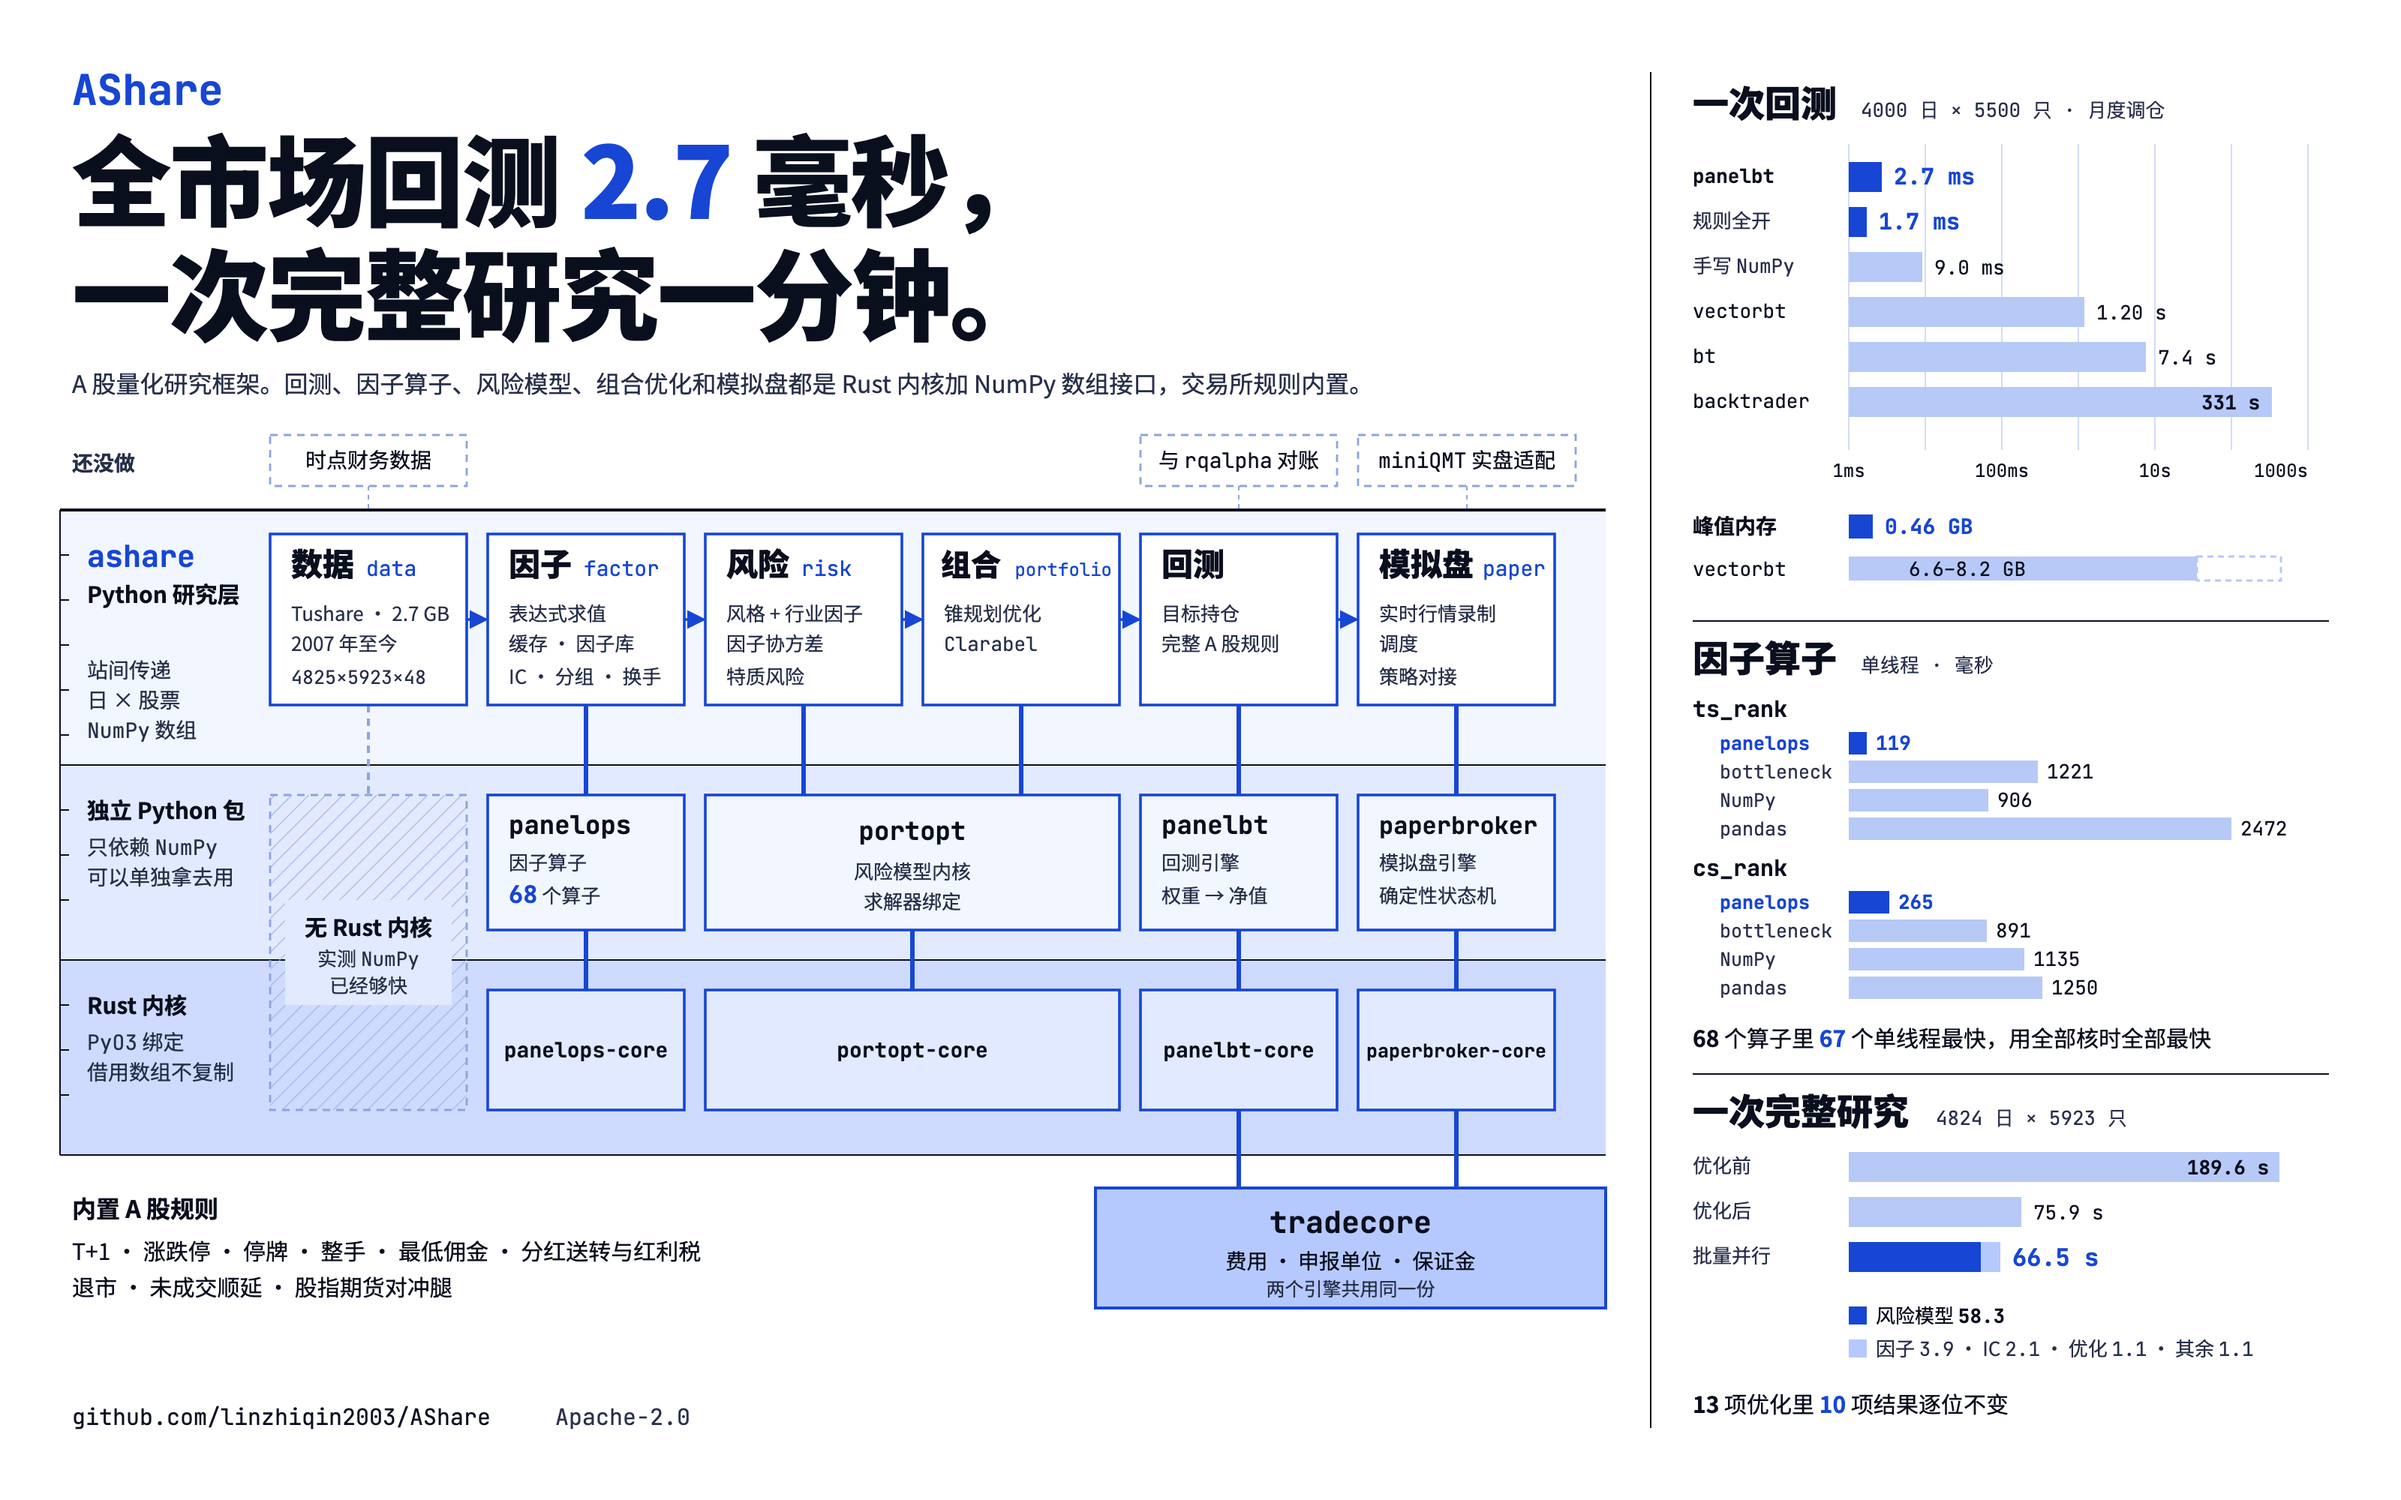
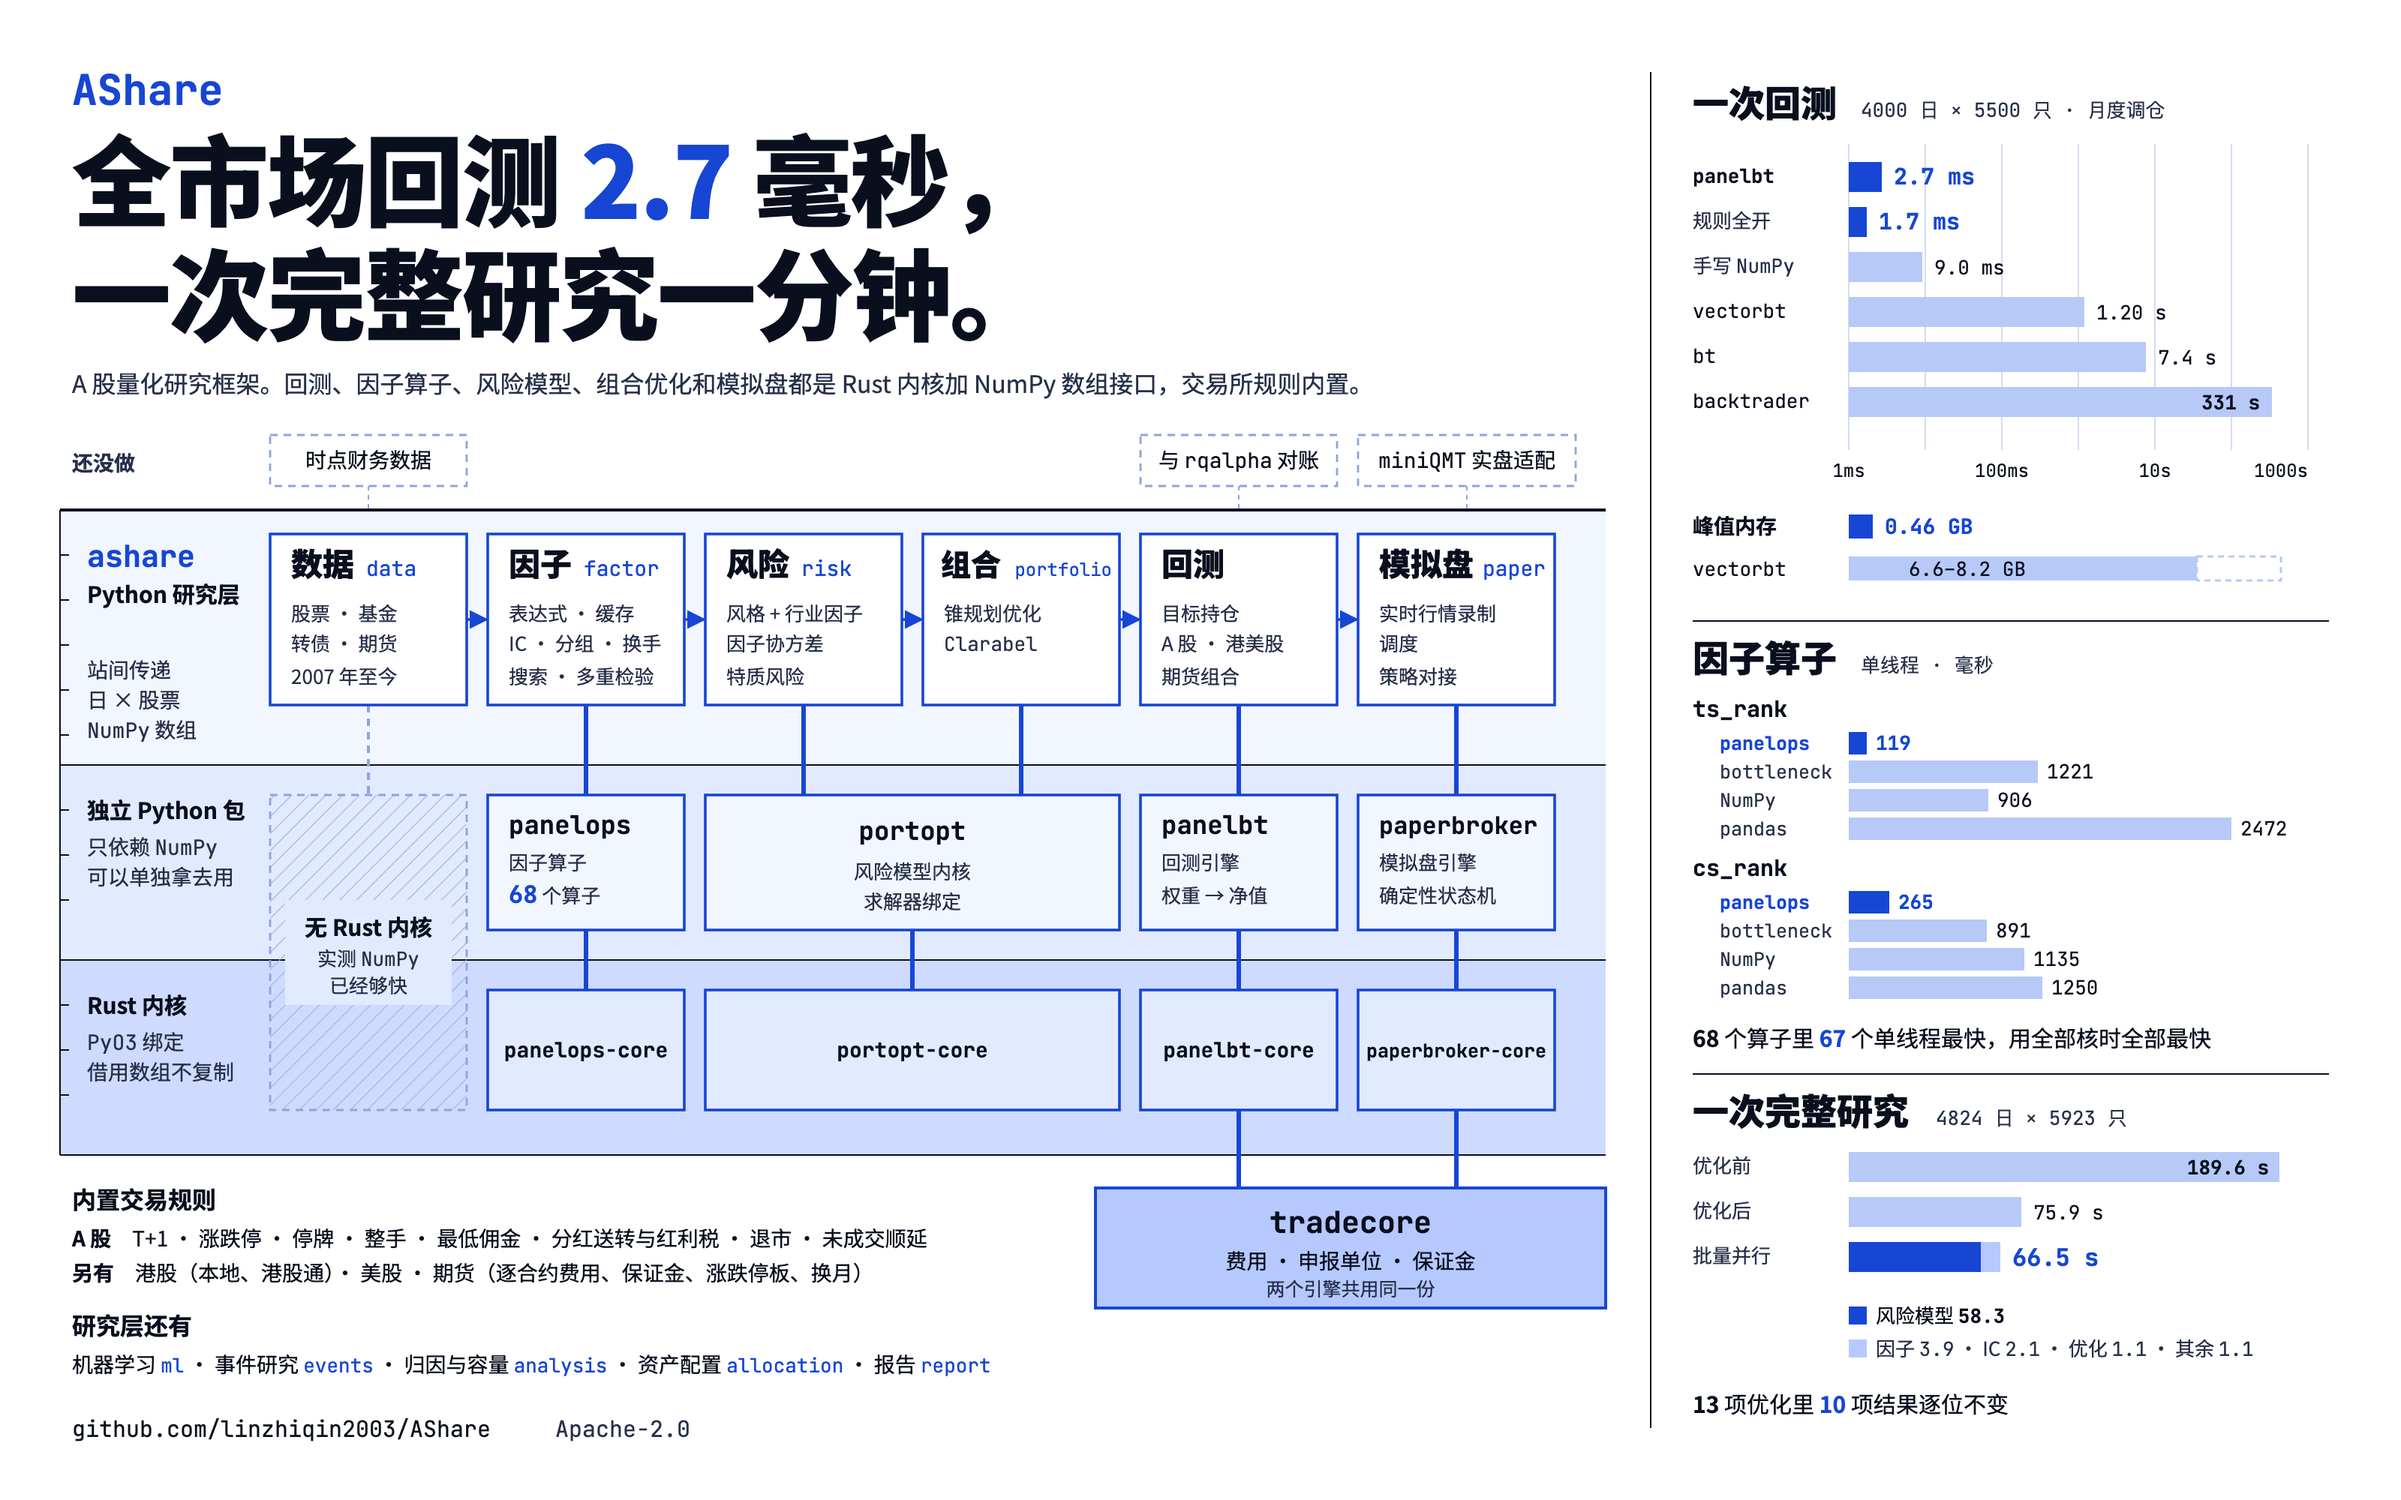
README architecture figure: current data coverage, market profiles and research-layer modules

diff --git a/docs/assets/architecture.html b/docs/assets/architecture.html
@@ -128,14 +128,14 @@ text{font-family:"Noto Sans SC","PingFang SC","Hiragino Sans GB",sans-serif;fill
 </g>
 <g font-size="13">
   <text x="194" y="384" font-size="21" class="k">数据</text><text x="244" y="384" class="m blue" font-size="14">data</text>
-  <text x="194" y="414" class="i2">Tushare · 2.7 GB</text>
-  <text x="194" y="434" class="i2">2007 年至今</text>
-  <text x="194" y="456" class="m i2" font-size="12.5">4825×5923×48</text>
+  <text x="194" y="414" class="i2">股票 · 基金</text>
+  <text x="194" y="434" class="i2">转债 · 期货</text>
+  <text x="194" y="456" class="i2">2007 年至今</text>
 
   <text x="339" y="384" font-size="21" class="k">因子</text><text x="389" y="384" class="m blue" font-size="14">factor</text>
-  <text x="339" y="414" class="i2">表达式求值</text>
-  <text x="339" y="434" class="i2">缓存 · 因子库</text>
-  <text x="339" y="456" class="i2">IC · 分组 · 换手</text>
+  <text x="339" y="414" class="i2">表达式 · 缓存</text>
+  <text x="339" y="434" class="i2">IC · 分组 · 换手</text>
+  <text x="339" y="456" class="i2">搜索 · 多重检验</text>
 
   <text x="484" y="384" font-size="21" class="k">风险</text><text x="534" y="384" class="m blue" font-size="14">risk</text>
   <text x="484" y="414" class="i2">风格 + 行业因子</text>
@@ -148,7 +148,8 @@ text{font-family:"Noto Sans SC","PingFang SC","Hiragino Sans GB",sans-serif;fill
 
   <text x="774" y="384" font-size="21" class="k">回测</text>
   <text x="774" y="414" class="i2">目标持仓</text>
-  <text x="774" y="434" class="i2">完整 A 股规则</text>
+  <text x="774" y="434" class="i2">A 股 · 港美股</text>
+  <text x="774" y="456" class="i2">期货组合</text>
 
   <text x="919" y="384" font-size="21" class="k">模拟盘</text><text x="988" y="384" class="m blue" font-size="14">paper</text>
   <text x="919" y="414" class="i2">实时行情录制</text>
@@ -202,13 +203,16 @@ text{font-family:"Noto Sans SC","PingFang SC","Hiragino Sans GB",sans-serif;fill
 <text x="900" y="864" text-anchor="middle" font-size="12.5" class="i2">两个引擎共用同一份</text>
 
 <!-- ---- A-share rules ---- -->
-<text x="48" y="812" font-size="16" class="b">内置 A 股规则</text>
-<text x="48" y="840" font-size="15">T+1 · 涨跌停 · 停牌 · 整手 · 最低佣金 · 分红送转与红利税</text>
-<text x="48" y="864" font-size="15">退市 · 未成交顺延 · 股指期货对冲腿</text>
+<text x="48" y="806" font-size="16" class="b">内置交易规则</text>
+<text x="48" y="831" font-size="14"><tspan class="b">A 股</tspan>　T+1 · 涨跌停 · 停牌 · 整手 · 最低佣金 · 分红送转与红利税 · 退市 · 未成交顺延</text>
+<text x="48" y="854" font-size="14"><tspan class="b">另有</tspan>　港股（本地、港股通）· 美股 · 期货（逐合约费用、保证金、涨跌停板、换月）</text>
+
+<text x="48" y="890" font-size="16" class="b">研究层还有</text>
+<text x="48" y="915" font-size="14">机器学习 <tspan class="m blue" font-size="13">ml</tspan> · 事件研究 <tspan class="m blue" font-size="13">events</tspan> · 归因与容量 <tspan class="m blue" font-size="13">analysis</tspan> · 资产配置 <tspan class="m blue" font-size="13">allocation</tspan> · 报告 <tspan class="m blue" font-size="13">report</tspan></text>
 
 <!-- footer -->
-<text x="48" y="950" class="m" font-size="15">github.com/linzhiqin2003/AShare</text>
-<text x="370" y="950" class="m i2" font-size="15">Apache-2.0</text>
+<text x="48" y="958" class="m" font-size="15">github.com/linzhiqin2003/AShare</text>
+<text x="370" y="958" class="m i2" font-size="15">Apache-2.0</text>
 
 <!-- ============ RIGHT COLUMN ============ -->
 <line x1="1100" y1="48" x2="1100" y2="952" stroke="var(--ink)" stroke-width="1"/>
